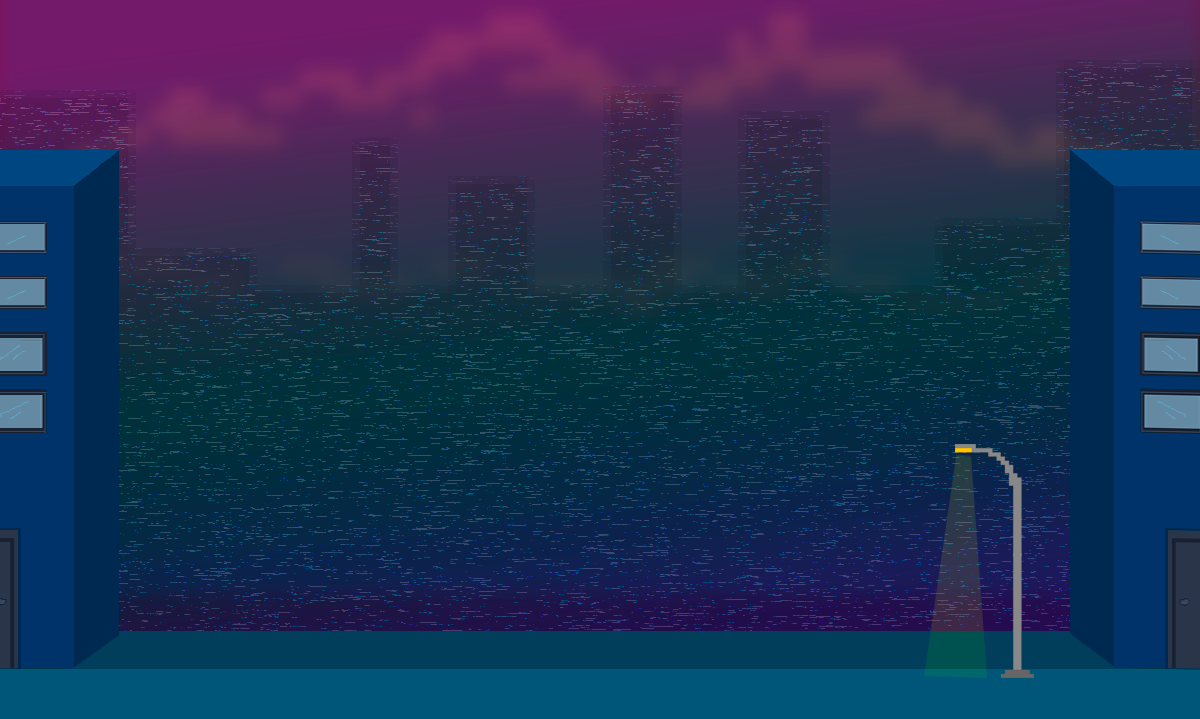
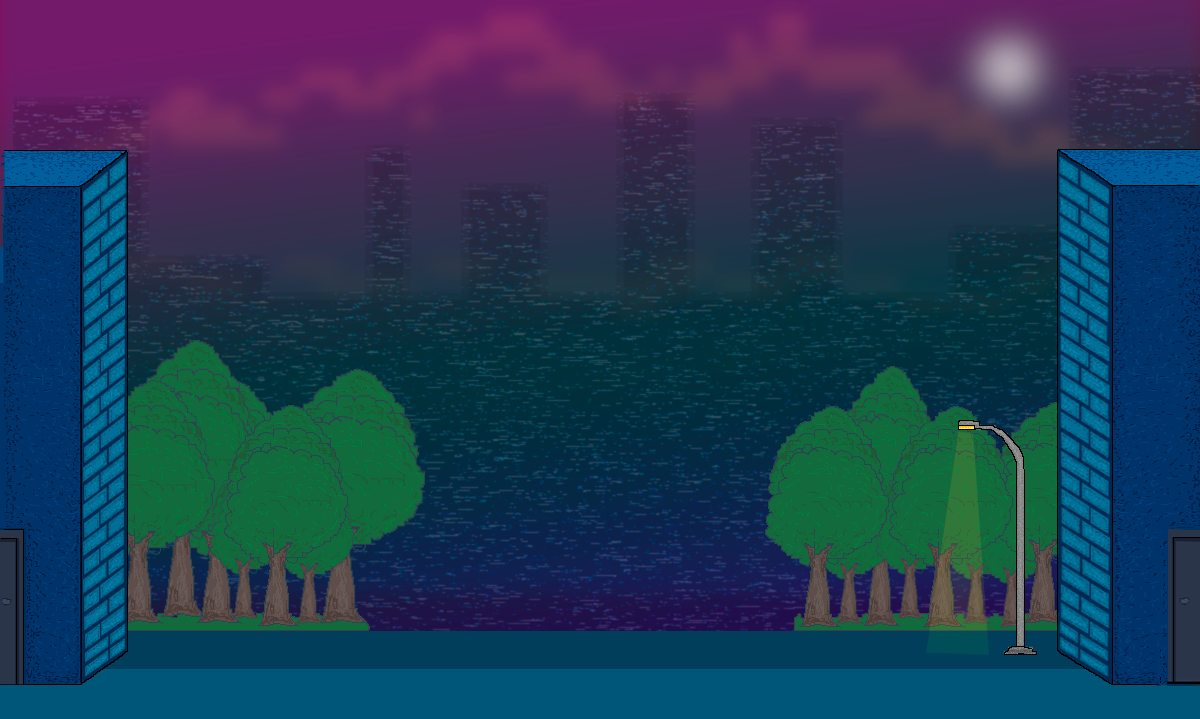
stage 3 different land scape done

diff --git a/js/atHome.js b/js/atHome.js
@@ -5,11 +5,16 @@ var Home = (function () {
       var preloadingHouse = function () {
           game.load.spritesheet('casita', 'images/casita.png', 659, 373,5);
           game.load.image('fondo1', 'images/fondo1.png');
+          game.load.image('fondo3', 'images/fondo3.png');
 
     };
 
     var addLandscape = function(){
+        if(stageSelector == 1 || stageSelector ==2){
          var image = game.add.image(0, 0, 'fondo1');
+        }else{
+          var image = game.add.image(0, 0, 'fondo3');
+        }
     }
     
     var addHouse = function(){
